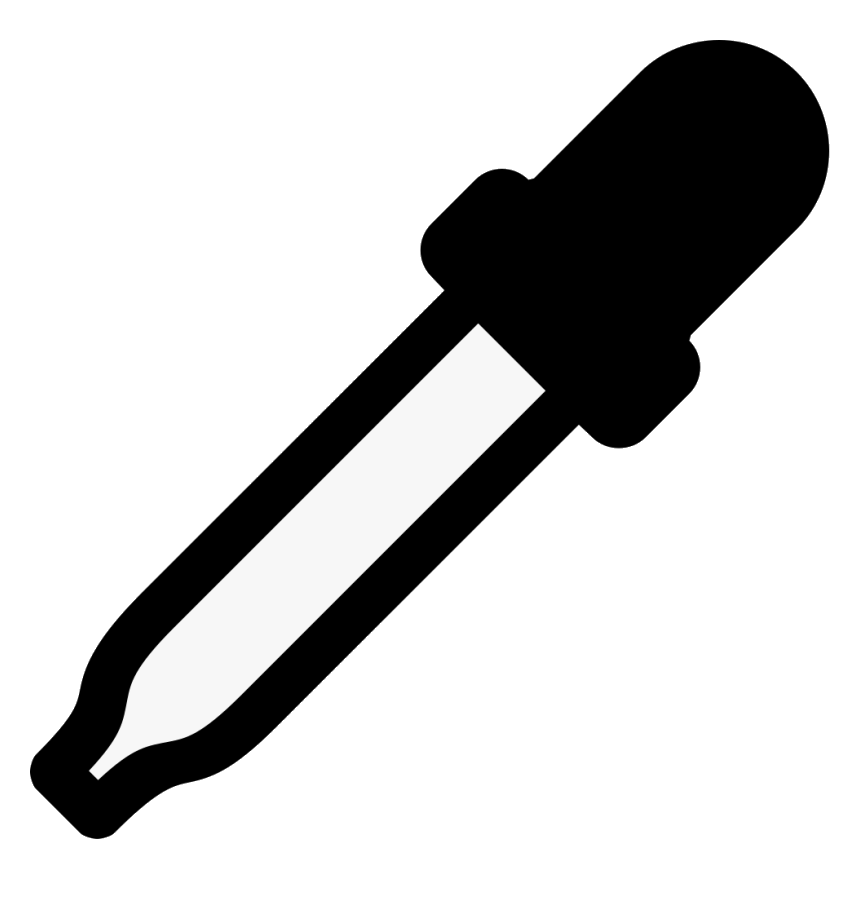
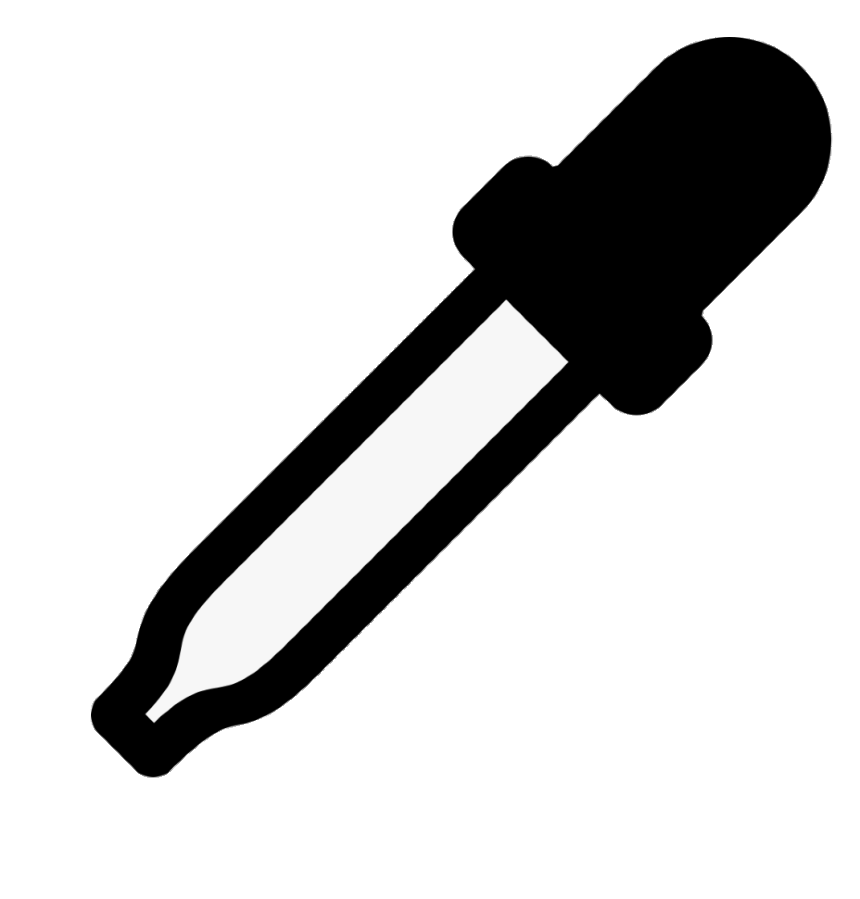
added images for tests and fixed bug that would crash playground

diff --git a/MineralTester/PlaygroundWindow.xaml b/MineralTester/PlaygroundWindow.xaml
@@ -25,12 +25,12 @@
         </Button>
         <Button Margin="750,511,155,10" Background="White" Click="MagnetismTestButton_Click">
             <StackPanel Orientation="Horizontal" Height="53" Width="92">
-                <Image Source="images/magnet.png" RenderTransformOrigin="0.479,0.75" Width="91" Height="46"/>
+                <Image Source="images/magnet.png" RenderTransformOrigin="0.479,0.75" Width="91" Height="54"/>
             </StackPanel>
         </Button>
         <Button Margin="859,511,50,10" Background="White" Click="AcidTestButton_Click">
             <StackPanel Orientation="Horizontal" Height="53" Width="92">
-                <Image Source="images/dropper.png" RenderTransformOrigin="0.479,0.75" Width="88" Height="46"/>
+                <Image Source="images/dropper.png" RenderTransformOrigin="0.479,0.75" Width="87" Height="53"/>
             </StackPanel>
         </Button>
         <Label Content="Mineral Tests" FontSize="16" HorizontalAlignment="Left" Margin="747,475,0,0" VerticalAlignment="Top"/>

diff --git a/MineralTester/PlaygroundWindow.xaml.cs b/MineralTester/PlaygroundWindow.xaml.cs
@@ -265,11 +265,13 @@ namespace MineralTester.UI
         /////////////////////////////////////////////////////////// TESTERS ///////////////////////////////////////////////////////////////////////////////////////////////////////
         ///
 
-        public void displayTester()
+        public void displayTester(string source)
         {
-            tester.Width = 150;
-            tester.Height = 150;
-            tester.Fill = Brushes.Blue;
+            tester.Width = 175;
+            tester.Height = 175;
+            ImageBrush img = new ImageBrush();
+            img.ImageSource = new BitmapImage(new Uri($"pack://application:,,,/MineralTester.UI;component{source}", UriKind.Absolute));
+            tester.Fill = img;
             Canvas.SetLeft(tester, 550);
             Canvas.SetTop(tester, 150);
             Playground.Children.Add(tester);
@@ -279,35 +281,48 @@ namespace MineralTester.UI
         {
             Playground.Children.Remove(tester);
             selectedTester = (Tester)ScratchTesters.SelectedItem;
-            displayTester();
+            displayTester(selectedTester.ImgSource);
         }
 
         private void ScratchTestButton_Click(object sender, RoutedEventArgs e)
         {
-            List<Tester> testers = new List<Tester>();
-            fillTesters(ref testers);
-            ScratchTesters.IsEnabled = true;
-            ScratchTesters.ItemsSource = testers;
-            ScratchTesters.DisplayMemberPath = "Name";
+            if(Playground.Children.Contains(tester))
+            {
+                Playground.Children.Remove(tester);
+            }
+
+            if (ScratchTesters.Items.Count == 0)
+            {
+                List<Tester> testers = new List<Tester>();
+                fillTesters(ref testers);
+                ScratchTesters.IsEnabled = true;
+                ScratchTesters.ItemsSource = testers;
+                ScratchTesters.DisplayMemberPath = "Name";
+            }
+
+            if(ScratchTesters.IsEnabled == false)
+            {
+                ScratchTesters.IsEnabled = true;
+            }
         }
 
         private void fillTesters(ref List<Tester> refList)
         {
             List<Tester> list = new List<Tester>();
 
-            Tester fingerNail = new Tester("Finger Nail", (float)2.5, (Enums.TestType)1);
+            Tester fingerNail = new Tester("Finger Nail", (float)2.5, (Enums.TestType)1, "/images/fingernail.png");
             list.Add(fingerNail);
 
-            Tester copperPenny = new Tester("Copper Penny", (float)3.5, (Enums.TestType)1);
+            Tester copperPenny = new Tester("Copper Penny", (float)3.5, (Enums.TestType)1, "/images/penny.png");
             list.Add(copperPenny);
 
-            Tester knife = new Tester("Knife", (float)5.5, (Enums.TestType)1);
+            Tester knife = new Tester("Knife", (float)5.5, (Enums.TestType)1, "/images/knife.png");
             list.Add(knife);
 
-            Tester steelNail = new Tester("Steel Nail", (float)6.5, (Enums.TestType)1);
+            Tester steelNail = new Tester("Steel Nail", (float)6.5, (Enums.TestType)1, "/images/nail.png");
             list.Add(steelNail);
 
-            Tester drillBit = new Tester("Masonry Drill Bit", (float)8.5, (Enums.TestType)1);
+            Tester drillBit = new Tester("Masonry Drill Bit", (float)8.5, (Enums.TestType)1, "/images/drillbit.png");
             list.Add(drillBit);
 
             refList = list;
@@ -318,9 +333,9 @@ namespace MineralTester.UI
             ScratchTesters.IsEnabled = false;
             Playground.Children.Remove(tester);
 
-            Tester magnet = new Tester((Enums.TestType)2);
+            Tester magnet = new Tester((Enums.TestType)2, "/images/magnet.png");
             selectedTester = magnet;
-            displayTester();
+            displayTester(magnet.ImgSource);
         }
 
         private void AcidTestButton_Click(object sender, RoutedEventArgs e)
@@ -328,9 +343,9 @@ namespace MineralTester.UI
             ScratchTesters.IsEnabled = false;
             Playground.Children.Remove(tester);
 
-            Tester acid = new Tester((Enums.TestType)3);
+            Tester acid = new Tester((Enums.TestType)3, "/images/dropper.png");
             selectedTester = acid;
-            displayTester();
+            displayTester(acid.ImgSource);
         }
 
 

diff --git a/MineralTester.Classes/Tester.cs b/MineralTester.Classes/Tester.cs
@@ -38,18 +38,26 @@ namespace MineralTester.Classes
             set;
         }
 
-        public Tester(string name, float hardness, Enums.TestType testType)
+        public string ImgSource
+        {
+            get;
+            set;
+        }
+
+        public Tester(string name, float hardness, Enums.TestType testType, string imgsrc)
         {
             Name = name;
             Hardness = hardness;
             TestType = testType;
+            ImgSource = imgsrc;
         }
 
-        public Tester(Enums.TestType testType)
+        public Tester(Enums.TestType testType, string imgsrc)
         {
             Magnet = true;
             Acid = true;
             TestType = testType;
+            ImgSource = imgsrc;
         }
 
 
